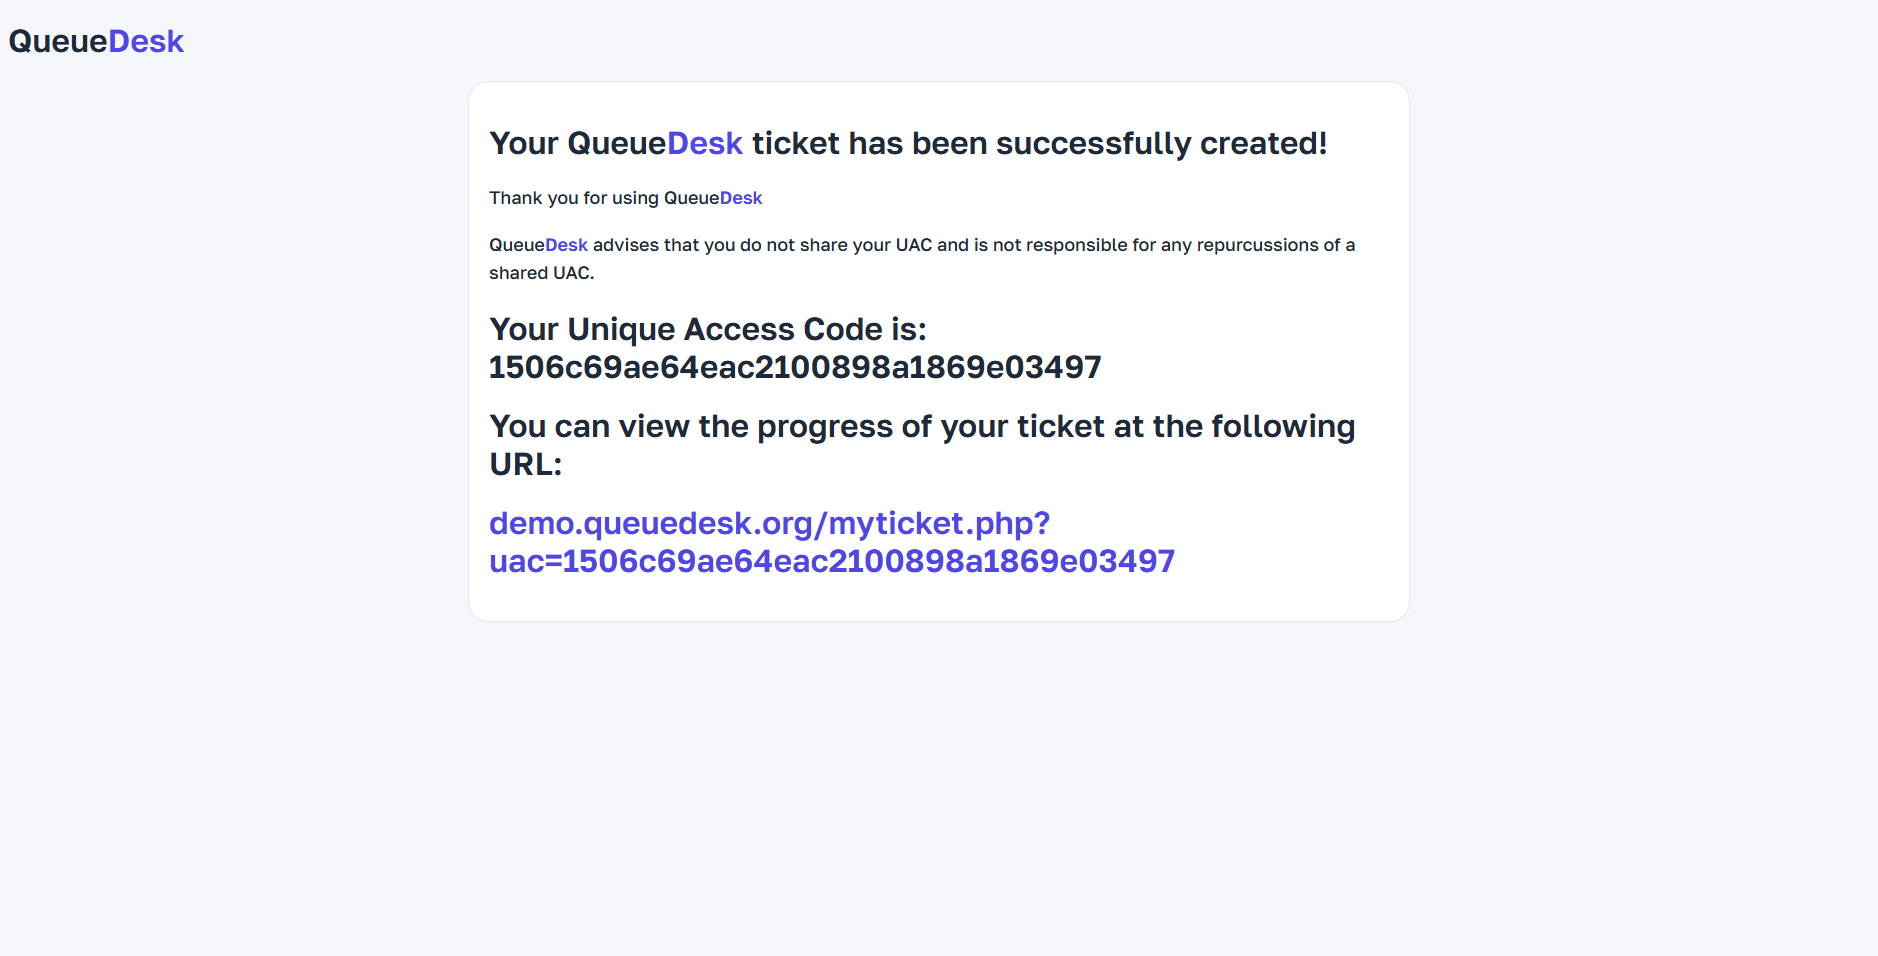
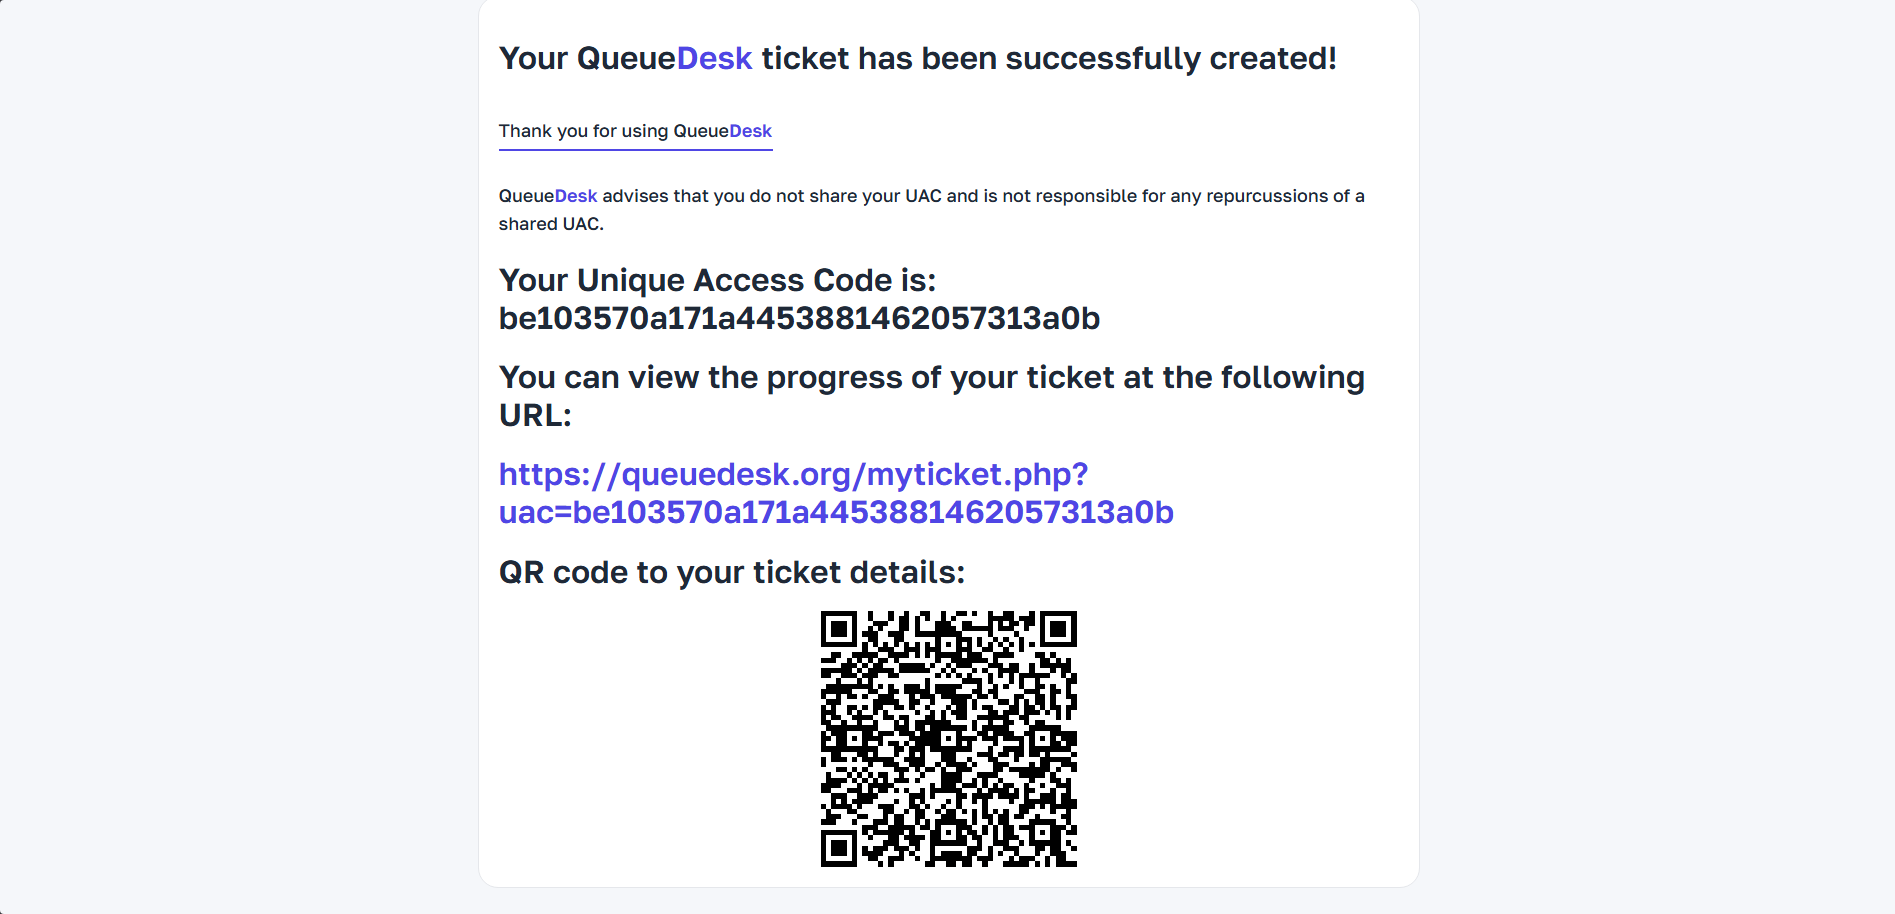
updated docs to include qr code

Changed region(s): [[0.2471, 0.1225, 0.7412, 0.9497], [0.2471, 0.0306, 0.7103, 0.0919], [0.0, 0.0306, 0.0927, 0.0613]]

diff --git a/docs/index.html b/docs/index.html
@@ -44,7 +44,8 @@
     </section>
     <section id="messages">
         <h1>Customer Accounts Are <special>Not Required</special></h1>
-        <p>Upon ticket creation, users are presented a URL with their <special>UAC</special> (Unique Access Code) integrated into the link. Upon going to the link, users will be prompted to enter their <special>email</special> used in their ticket to access their ticket details to prevent hackers and any data leaks.</p>
+        <p>Upon ticket creation, users are presented a URL with their <special>UAC</special> (Unique Access Code) integrated into the link. Upon going to the link, users will be prompted to enter their <special>email</special> used in their ticket to access their ticket details to prevent hackers and any data leaks. Queue<special>Desk</special> also makes use of the <a href="https://github.com/davidshimjs/qrcodejs/tree/master">QRCode.js library</a> created by <a href="https://github.com/davidshimjs">davidshimjs</a> but similar to chart.js uses a local copy of the JavaScript code to ensure no external API reliance.</p>
+        <p><special>DISCLAIMER: THE INSTANCE/URL USED IN THE IMAGE BELOW IS NOT A REAL INSTANCE AND IS PURELY FOR DEMONSTRATIVE PURPOSES.</special></p>
         <img src="sc/thankyou.png">
     </section>
     <section id="messages">
@@ -111,7 +112,7 @@
    </section>
    <section id="messages">
         <h1><special>Visualise</special></h1>
-        <p>The Queue<special>Desk</special> administrator dashboard allows for you to <special>visualise</special> the metrics of your team to a .CSV format for <special>simplified data analysis</special> using the chart.js functionality without needing to make any external calls for <special>independence</special> and <special>security</special>.</p>
+        <p>The Queue<special>Desk</special> administrator dashboard allows for you to <special>visualise</special> the metrics of your team to a .CSV format for <special>simplified data analysis</special> using the <a href="https://www.chartjs.org/">chart.js</a> library to create the graphs via a local copy to ensure there are no external calls for <special>independence</special> and <special>security</special>.</p>
         <img src="sc/visual.png">
    </section>
     <br><br>
